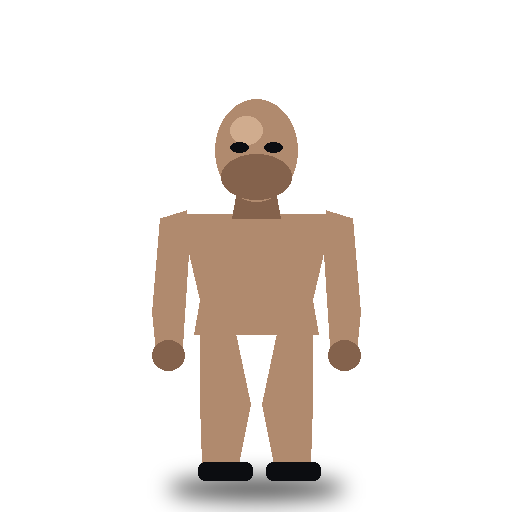
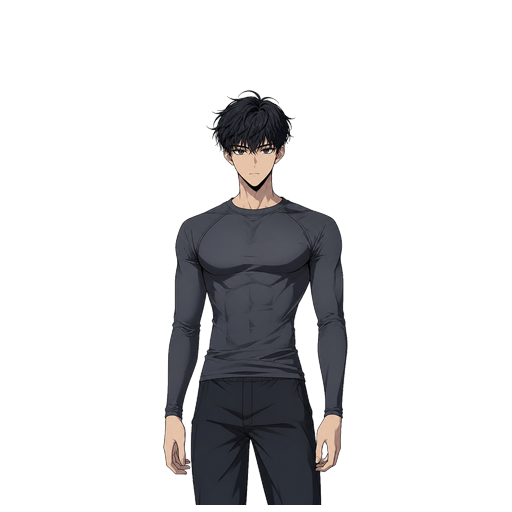
fix: ensure new manhwa rookie base is default for all players and bump to v1.3.0

Changed region(s): [[0.2812, 0.1562, 0.7188, 1.0]]

diff --git a/services/game.py b/services/game.py
@@ -410,16 +410,14 @@ def render_request(player: Player) -> RenderRequest:
     """Build the compositor request for a player's current look."""
     # Deterministic scene variety: same player always gets the same backdrop.
     background = BACKGROUND_KEYS[player.user_id % len(BACKGROUND_KEYS)][0]
-    if player.body_stance in ("base_male", "base_female", "base_shadow", "base_aegis", "base_street"):
-        body = player.body_stance
-    elif player.gender == "مرد":
-        body = "base_male"
-    elif player.gender == "زن":
+    if player.gender == "زن":
         body = "base_female"
     elif player.gender in ("سایهوار", "نامشخص"):
         body = "base_shadow"
+    elif player.body_stance in ("base_female", "base_shadow"):
+        body = player.body_stance
     else:
-        body = "base_street"
+        body = "base_male"
     return RenderRequest(
         display_name=player.display_name,
         username=player.username,

diff --git a/handlers/profile.py b/handlers/profile.py
@@ -117,8 +117,8 @@ async def cmd_profile(message: Message) -> None:
 @router.message(CommandOrText(["version", "ver"], {"ورژن", "نسخه"}))
 async def cmd_version(message: Message) -> None:
     await message.answer(
-        "🤖 <b>ربات ایگریس — نسخه ۱.۲.۱</b>\n"
-        "✨ <b>وضعیت:</b> رفع باگ لوداوت و ذخیره وضعیت خلع سلاح کولهپشتی"
+        "🤖 <b>ربات ایگریس — نسخه ۱.۳.۰</b>\n"
+        "✨ <b>وضعیت:</b> آرت جدید مانهوایی، تفکیک جنسیت کاراکتر (مرد/زن/سایه) و ویزارد آنبوردینگ فعال است."
     )
 
 
